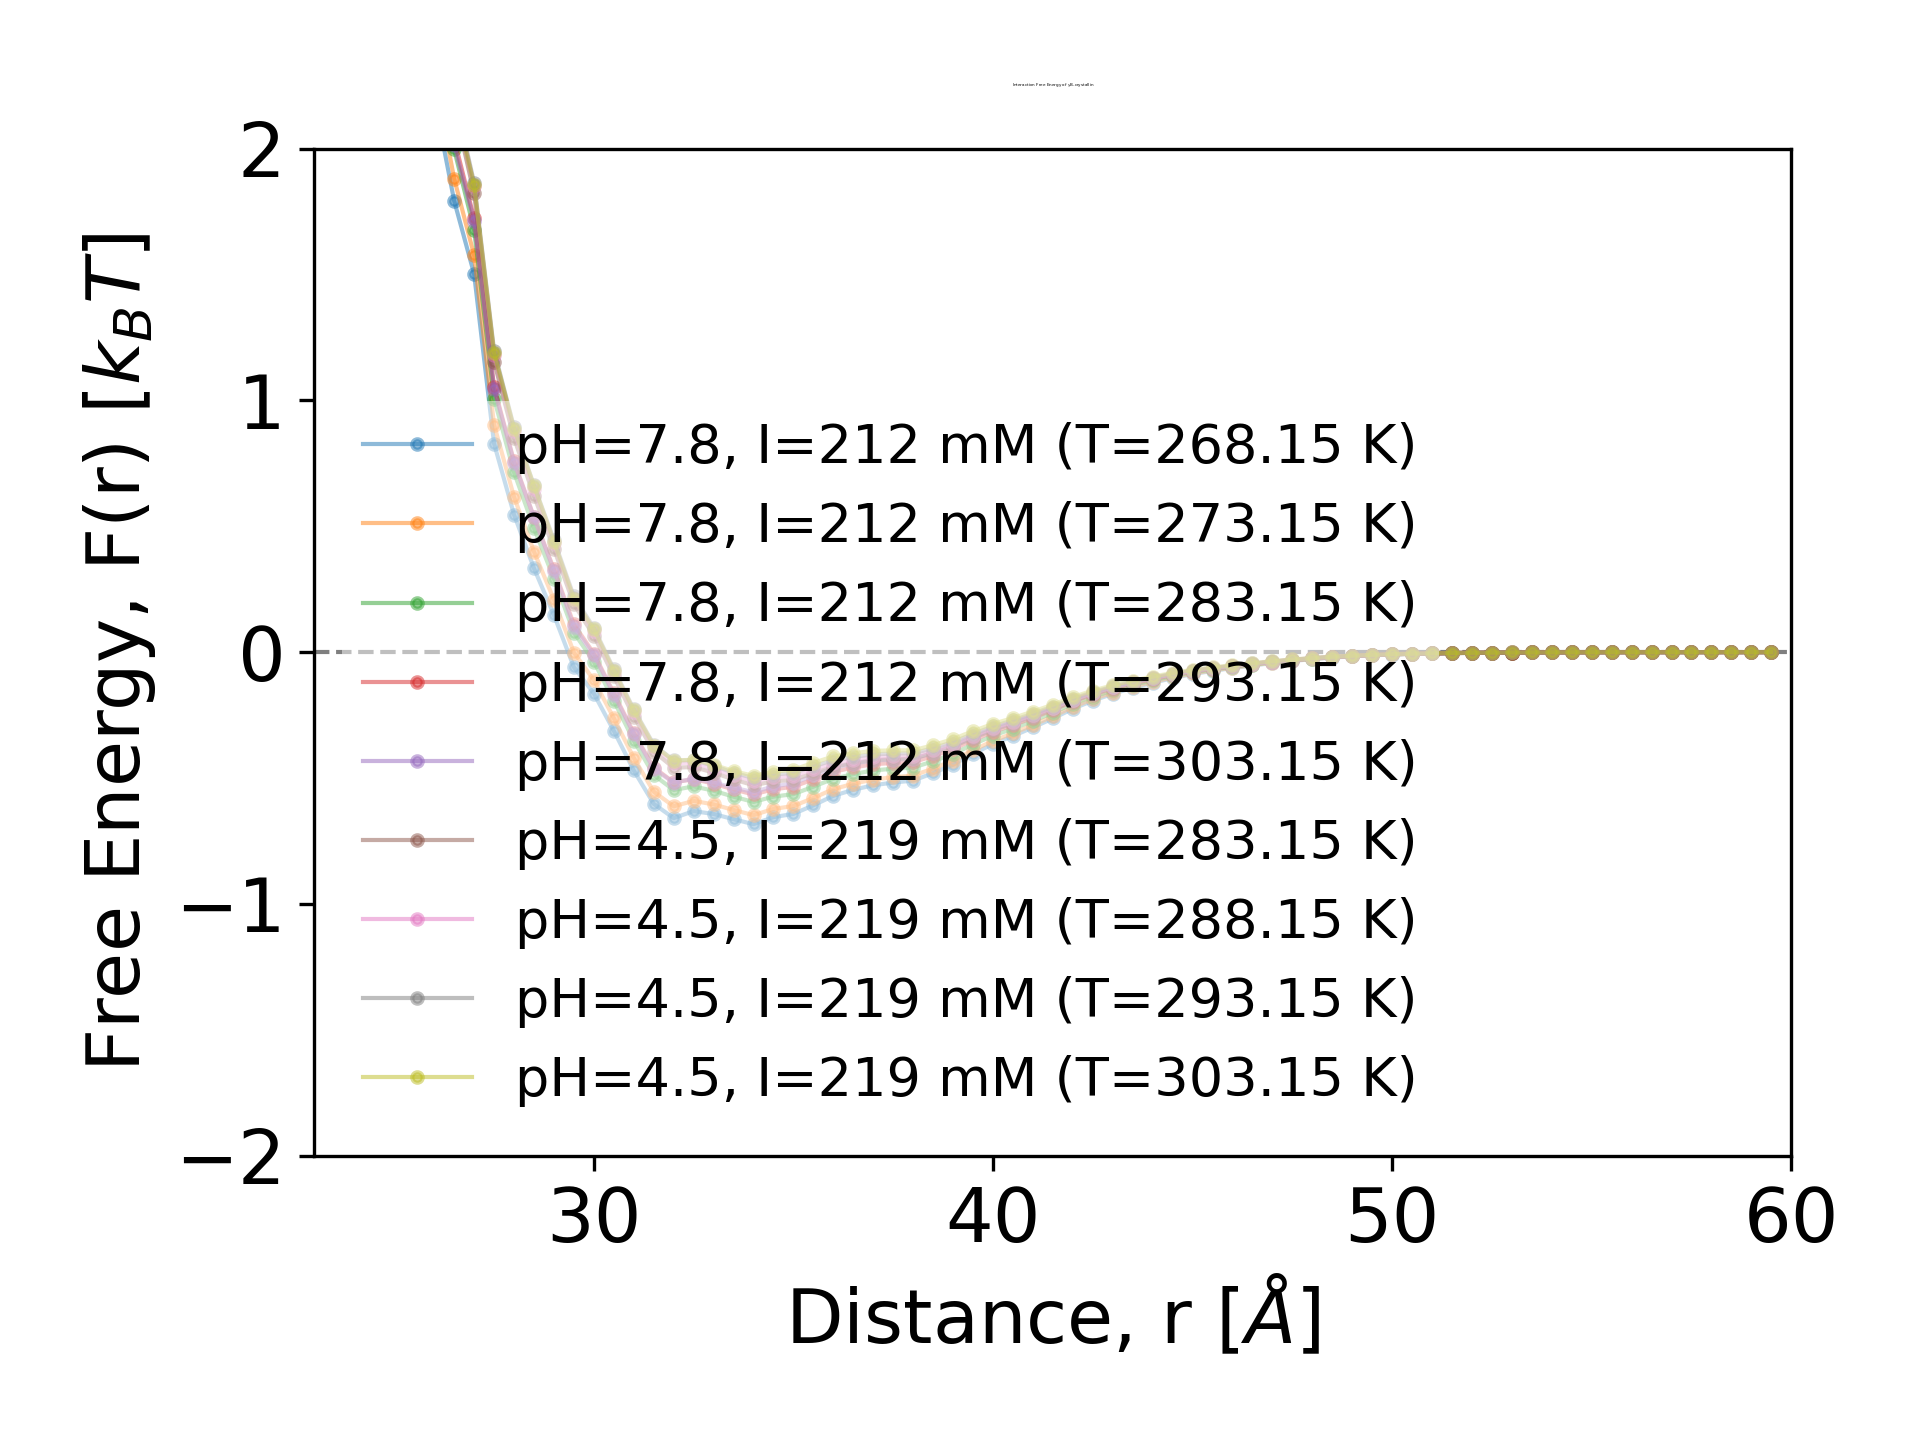
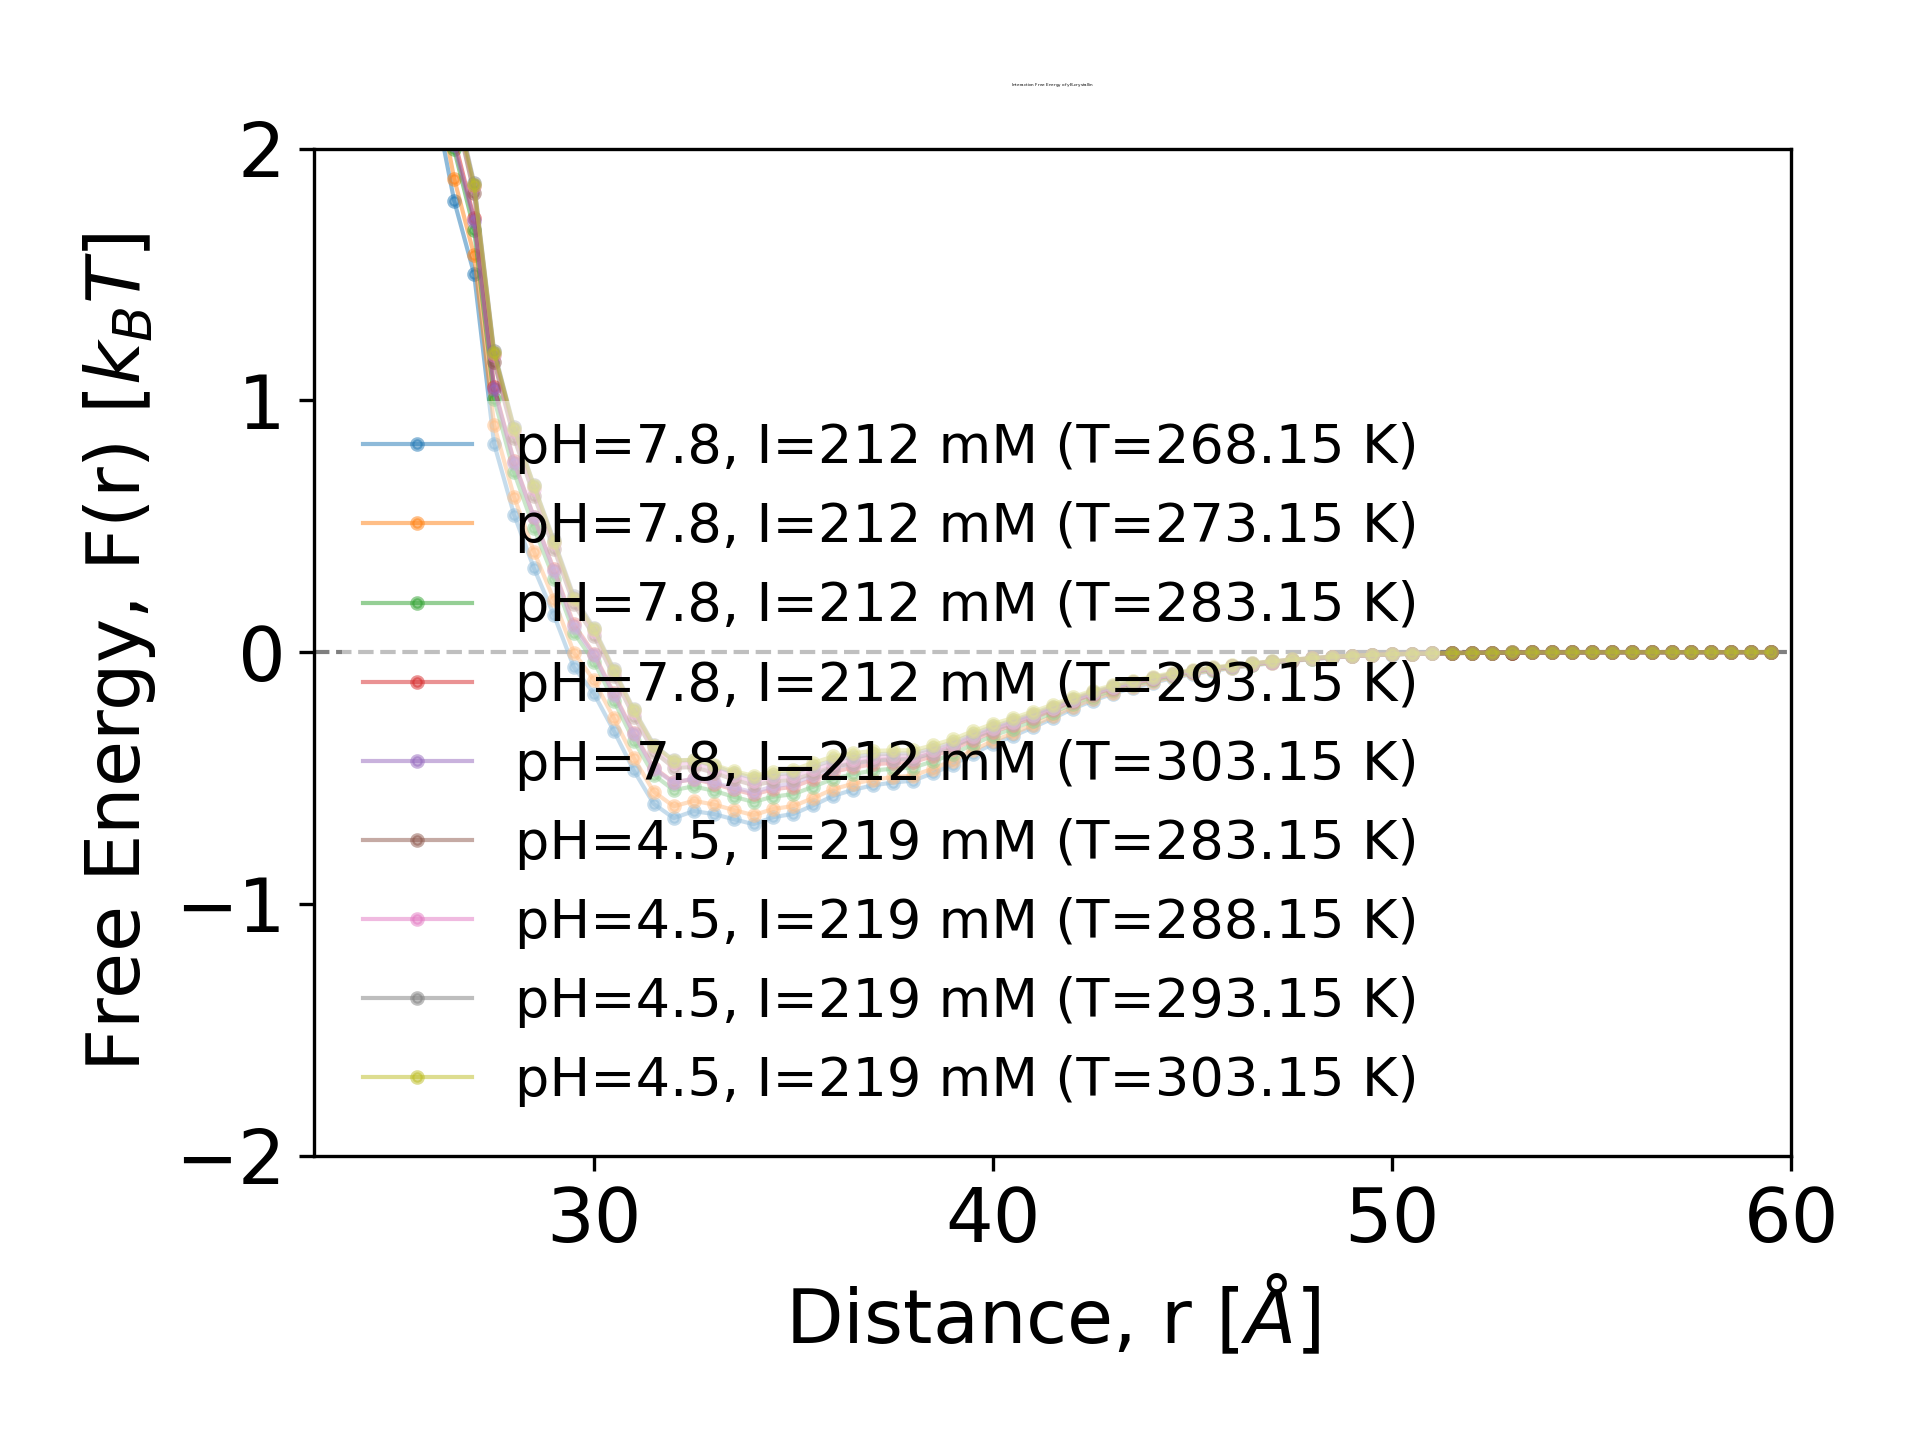
Updating plotting script for Duello outputs to get presentation friendly figures

diff --git a/faunus_simulations/HS_benchmark.py b/faunus_simulations/HS_benchmark.py
@@ -1,6 +1,12 @@
 import argparse
+import sys
+import os
 import numpy as np
 import matplotlib.pyplot as plt
+
+sys.path.insert(0, os.path.expanduser('~/projects/ppis/plot_scripts'))
+import common_presentation  # noqa: F401 — applies rcParams side-effects
+
 
 def percus_yevick_Sq(q, sigma, phi):
     """
@@ -59,15 +65,7 @@ sigma = args.sigma
 phi   = args.phi
 N     = args.N
 
-# ── Analytical PY ─────────────────────────────────────────────────────────────
-q    = np.linspace(0.01, 0.8, 500)
-S_PY = percus_yevick_Sq(q, sigma, phi)
-P_HS = hard_sphere_Pq(q, sigma)
-I_PY = P_HS * S_PY
-
 # ── Simulation (pripps, f=1 constant ff) ──────────────────────────────────────
-# pripps Debye: I(q) = Σᵢ fᵢ² + 2Σᵢ<ⱼ fᵢfⱼ sinc(q·rᵢⱼ)
-# with fᵢ=1  →  I_pripps(q) = N·S(q)  ⟹  S_sim = I_pripps / N
 has_sim = False
 if args.csv is not None:
     try:
@@ -81,39 +79,54 @@ if args.csv is not None:
     except FileNotFoundError:
         print(f"Warning: file '{args.csv}' not found — plotting analytical only.")
 
-# ── Plot ──────────────────────────────────────────────────────────────────────
-fig, axes = plt.subplots(1, 3, figsize=(15, 5))
+# ── Analytical PY (clipped to simulation q range if available) ─────────────────
+q_max = q_sim.max() if has_sim else 0.8
+q    = np.linspace(0.01, q_max, 500)
+S_PY = percus_yevick_Sq(q, sigma, phi)
+P_HS = hard_sphere_Pq(q, sigma)
+I_PY = P_HS * S_PY
 
-axes[0].plot(q, S_PY, color='#EF9F27', lw=2.5, label='PY analytical')
+stem = f'HS_benchmark_sigma{sigma:.0f}_phi{phi:.2f}'
+
+# ── S(q) ──────────────────────────────────────────────────────────────────────
+fig, ax = plt.subplots(figsize=(7, 5))
+ax.plot(q, S_PY, color='#EF9F27', lw=2.5, label='Percus-Yevick analytical')
 if has_sim:
-    axes[0].plot(q_sim, S_sim, color='#E05252', lw=1.5, ls='--', label='Simulation')
-axes[0].axhline(1, color='gray', lw=0.8, ls=':')
-axes[0].set_xlabel('q (Å⁻¹)')
-axes[0].set_ylabel('S(q)')
-axes[0].set_title(f'Structure factor  φ={phi}  σ={sigma}Å')
-axes[0].legend()
-axes[0].grid(True)
-
-axes[1].semilogy(q, P_HS, color='#1D9E75', lw=2.5)
-axes[1].set_xlabel('q (Å⁻¹)')
-axes[1].set_ylabel('P(q)')
-axes[1].set_title('Hard sphere form factor P(q)')
-axes[1].grid(True)
-
-axes[2].semilogy(q, I_PY, color='#378ADD', lw=2.5, label='PY analytical')
-if has_sim:
-    axes[2].semilogy(q_sim, I_full_sim, color='#E05252', lw=1.5, ls='--',
-                     label='P(q)·S_sim(q)')
-axes[2].set_xlabel('q (Å⁻¹)')
-axes[2].set_ylabel('I(q)')
-axes[2].set_title('I(q) = P(q)·S(q)')
-axes[2].legend()
-axes[2].grid(True)
-
-plt.suptitle('Hard sphere Percus-Yevick benchmark', color='#EF9F27', fontsize=13)
-plt.tight_layout()
-plt.savefig(f'HS_benchmark_sigma{sigma:.0f}_phi{phi:.2f}.png', dpi=150, bbox_inches='tight')
+    ax.plot(q_sim, S_sim, color='#E05252', lw=1.5, ls='--', label='Simulation')
+ax.axhline(1, color='gray', lw=0.8, ls=':')
+ax.set_xlabel(r"$q$ [Å$^{-1}$]")
+ax.set_ylabel(r"Structure factor, $S(q)$")
+ax.legend()
+ax.tick_params(which='both', direction='in')
+ax.yaxis.set_major_locator(plt.MultipleLocator(0.5))
+ax.yaxis.set_major_formatter(plt.FormatStrFormatter('%.1f'))
+fig.savefig(f'{stem}_Sq.png', dpi=150, transparent=True, bbox_inches='tight')
 plt.show()
+plt.close(fig)
+
+# ── P(q) ──────────────────────────────────────────────────────────────────────
+fig, ax = plt.subplots(figsize=(7, 5))
+ax.semilogy(q, P_HS, color='#1D9E75', lw=2.5)
+ax.set_xlabel(r"$q$ [Å$^{-1}$]")
+ax.set_ylabel(r"Form factor, $P(q)$")
+ax.tick_params(which='both', direction='in')
+fig.savefig(f'{stem}_Pq.png', dpi=150, bbox_inches='tight')
+plt.show()
+plt.close(fig)
+
+# ── I(q) ──────────────────────────────────────────────────────────────────────
+fig, ax = plt.subplots(figsize=(7, 5))
+ax.semilogy(q, I_PY, color='#378ADD', lw=2.5, label='Percus-Yevick analytical')
+if has_sim:
+    ax.semilogy(q_sim, I_full_sim, color='#E05252', lw=1.5, ls='--',
+                label=r'$P(q)\cdot S_\mathrm{sim}(q)$')
+ax.set_xlabel(r"$q$ [Å$^{-1}$]")
+ax.set_ylabel(r"Intensity, $I(q)$")
+ax.legend()
+ax.tick_params(which='both', direction='in')
+fig.savefig(f'{stem}_Iq.png', dpi=150, bbox_inches='tight')
+plt.show()
+plt.close(fig)
 
 # ── Key features ──────────────────────────────────────────────────────────────
 q_peak = q[np.argmax(S_PY)]

diff --git a/plot_scripts/plot_potential.py b/plot_scripts/plot_potential.py
@@ -149,21 +149,22 @@ def plot_potentials(potential_series, plot_dir):
     fig, ax = plt.subplots()
     ax.axhline(y=0, color="black", lw=1, ls="--", alpha=0.5)
     for entry in potential_series:
+        temp = entry.get("temp")
+        leg_label = f"{temp:g}" if temp is not None else entry["label"]
         ax.plot(
             entry["R"],
             entry["U"],
-            ms=2.5,
+            ms=5,
             marker="o",
             lw=1,
-            alpha=0.5,
-            label=entry["label"],
+            alpha=0.7,
+            label=leg_label,
         )
-    ax.set_ylim(-2, 2)
-    ax.set_xlim(23, 60)
+    ax.set_ylim(-0.6, 0.2)
+    ax.set_xlim(28, 50)
     ax.set_xlabel(r"Distance, r [$\AA$]")
     ax.set_ylabel(r"Free Energy, F(r) [$k_BT$]")
-    ax.legend(ncol=1)
-    ax.set_title("Interaction Free Energy of $\gamma$B-crystallin", pad=15)
+    ax.legend(ncol=1, title="T [K]", loc="lower right")
     os.makedirs(plot_dir, exist_ok=True)
     plt.savefig(os.path.join(plot_dir, "potential.png"), dpi=EXPORT_DPI)
     plt.close(fig)
@@ -214,7 +215,7 @@ def plot_b2(b2_series, exp_data_list, plot_dir):
     ax.set_xlabel(r"Temperature, T [$K$]")
     ax.set_ylabel(r"Second virial coeff., $b_2$")
     os.makedirs(plot_dir, exist_ok=True)
-    plt.savefig(os.path.join(plot_dir, "B2.png"), dpi=EXPORT_DPI)
+    plt.savefig(os.path.join(plot_dir, "B2.png"), transparent=True, dpi=EXPORT_DPI)
     plt.close(fig)
 
 
@@ -251,7 +252,7 @@ def main():
             R, U = load_scan_columns(file_path)
             temp = extract_temperature(entry)
             label = determine_label(dataset_label, temp, scans_in_dataset, datasets_count)
-            potential_series.append({"label": label, "R": R, "U": U})
+            potential_series.append({"label": label, "R": R, "U": U, "temp": temp})
 
         json_files = sorted([name for name in os.listdir(directory) if name.endswith(".json")])
         dataset_b2 = {"label": dataset_label, "T": [], "values": []}

diff --git a/faunus_simulations/plot_scripts/compute_sq.py b/faunus_simulations/plot_scripts/compute_sq.py
@@ -137,7 +137,7 @@ def main():
     # I(q) — log-log
     fig, ax = plt.subplots(figsize=(7, 5))
     ax.loglog(q_iq, I_q, "o-", color="darkorange", linewidth=1.5, markersize=5)
-    ax.set_xlabel(r"$q$ / Å$^{-1}$")
+    ax.set_xlabel(r"$q$ [Å$^{-1}$]")
     ax.set_ylabel(r"$I(q)$ / a.u.")
     ax.tick_params(which="both", direction="in")
     _save_or_show(fig, _stem(args.output, "Iq"), "I(q)")
@@ -145,7 +145,7 @@ def main():
     # P(q) — log-log
     fig, ax = plt.subplots(figsize=(7, 5))
     ax.loglog(q_iq, P_interp, "o-", color="seagreen", linewidth=1.5, markersize=5)
-    ax.set_xlabel(r"$q$ / Å$^{-1}$")
+    ax.set_xlabel(r"$q$ [Å$^{-1}$]")
     ax.set_ylabel(r"$P(q)$ / a.u.")
     ax.tick_params(which="both", direction="in")
     _save_or_show(fig, _stem(args.output, "Pq"), "P(q)")
@@ -153,7 +153,7 @@ def main():
     # beta(q) — semi-log x
     fig, ax = plt.subplots(figsize=(7, 5))
     ax.semilogx(q_iq, beta_interp, "o-", color="mediumpurple", linewidth=1.5, markersize=5)
-    ax.set_xlabel(r"$q$ / Å$^{-1}$")
+    ax.set_xlabel(r"$q$ [Å$^{-1}$]")
     ax.set_ylabel(r"$\beta(q)$")
     ax.tick_params(which="both", direction="in")
     _save_or_show(fig, _stem(args.output, "beta"), r"beta(q)")
@@ -163,7 +163,7 @@ def main():
     ax.semilogx(q_iq, S_q, "o-", color="crimson", linewidth=1.5,
                 markersize=5, label=r"$S(q)$")
     ax.axhline(1.0, color="gray", linestyle="--", linewidth=0.8, label="S=1")
-    ax.set_xlabel(r"$q$ / Å$^{-1}$")
+    ax.set_xlabel(r"$q$ [Å$^{-1}$]")
     ax.set_ylabel(r"$S(q)$")
     ax.legend()
     ax.tick_params(which="both", direction="in")
@@ -182,7 +182,7 @@ def main():
         ax.semilogx(q_exp, seff_exp, "s--", color="tomato", linewidth=1.5,
                     markersize=5, label=citation)
 
-    ax.set_xlabel(r"$q$ / Å$^{-1}$")
+    ax.set_xlabel(r"$q$ [Å$^{-1}$]")
     ax.set_ylabel(r"Effective structure factor, $S_\mathrm{eff}(q)$")
     ax.legend()
     ax.tick_params(which="both", direction="in")